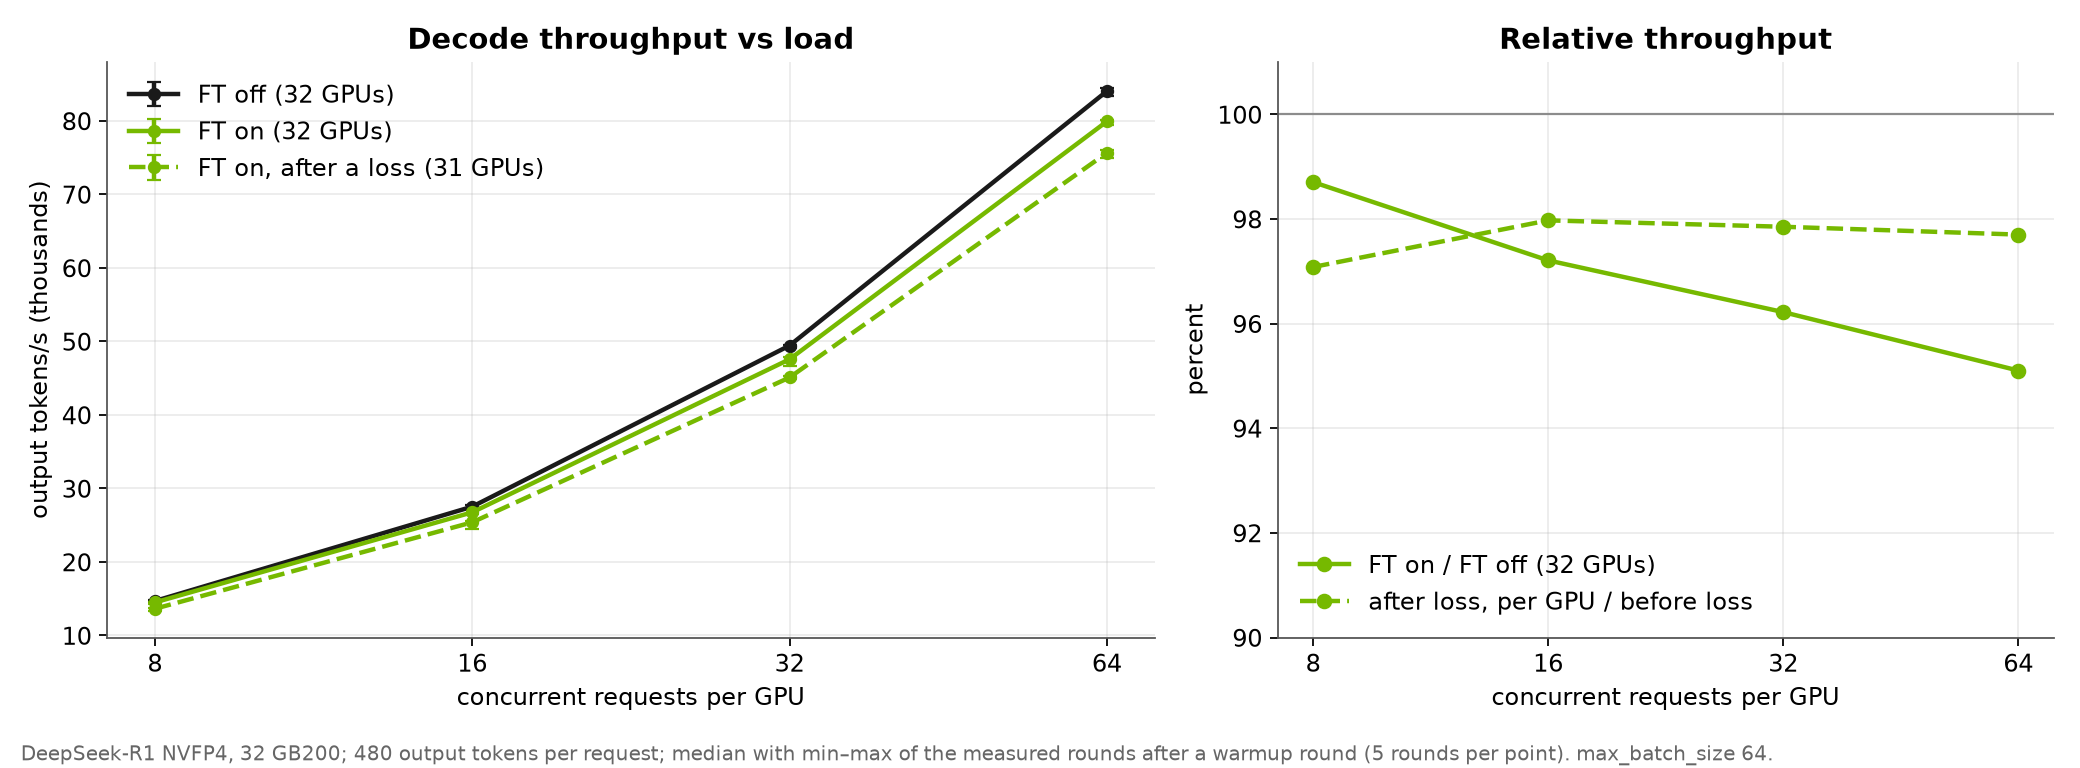
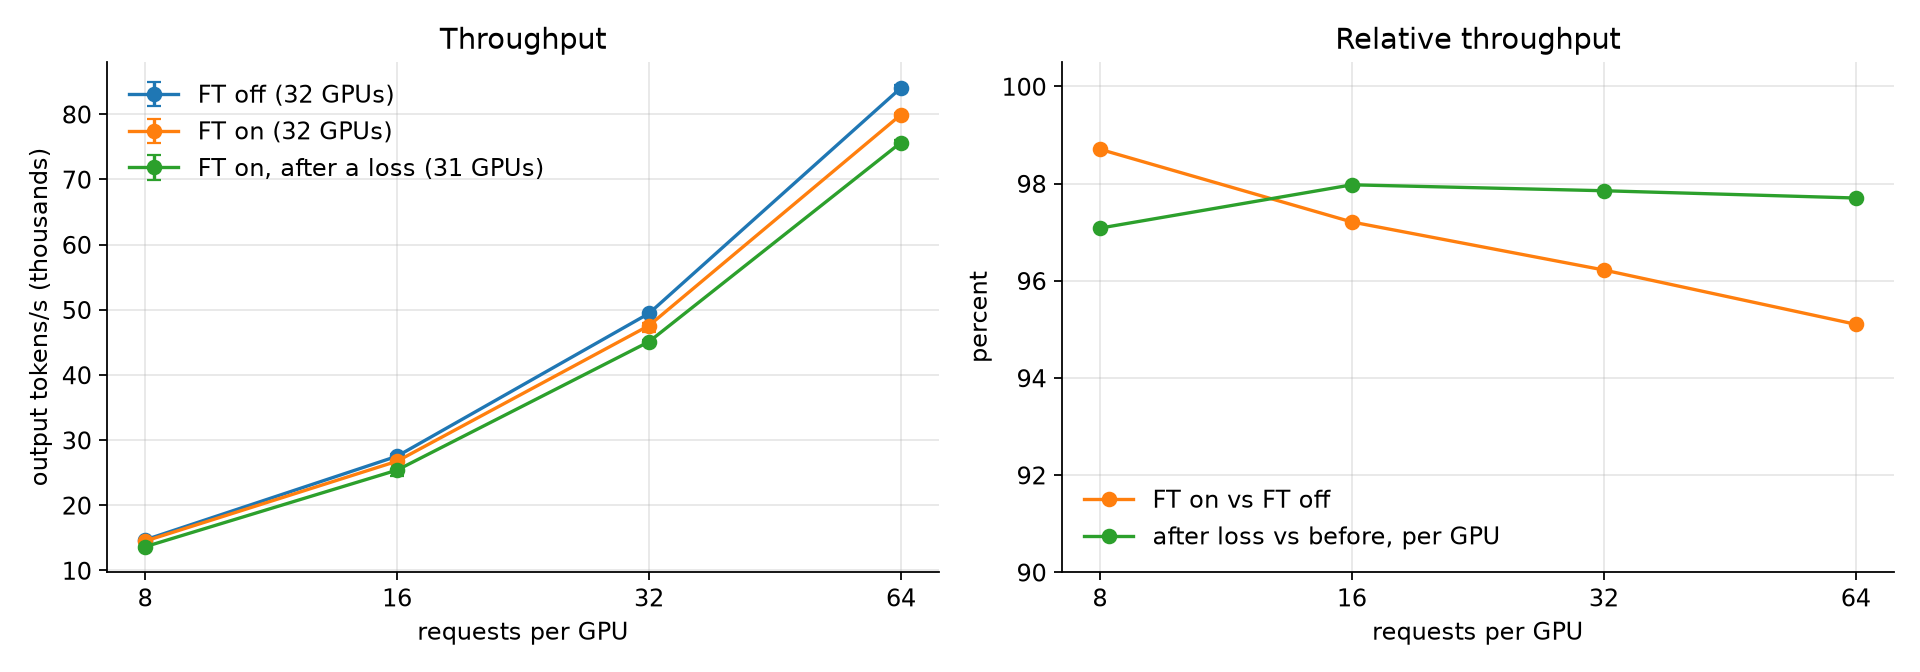
[None][doc] use plain standard charts for the WideEP FT evaluation

diff --git a/.wideep-ft-harness/evidence/make_eval.py b/.wideep-ft-harness/evidence/make_eval.py
@@ -15,9 +15,8 @@ import matplotlib
 matplotlib.use("Agg")
 import matplotlib.pyplot as plt  # noqa: E402
 
-BLACK, GRAY, GREEN, RED = "#1a1a1a", "#8c8c8c", "#76b900", "#d32f2f"
-plt.rcParams.update({"font.family": "DejaVu Sans", "font.size": 11, "axes.spines.top": False,
-                     "axes.spines.right": False, "axes.edgecolor": "#555", "axes.titleweight": "bold"})
+OFF, ON, LOSS = "tab:blue", "tab:orange", "tab:green"
+plt.rcParams.update({"font.size": 11, "axes.spines.top": False, "axes.spines.right": False})
 
 
 def load_sweep(run_dir: str) -> dict:
@@ -34,47 +33,33 @@ def sweep_chart(runs: str) -> None:
     # max_batch_size 64 run: only loads that all run concurrently (above 64 requests queue).
     merged = {mode: {n: v for n, v in points.items() if n <= 64}
               for mode, points in load_sweep(f"{runs}/sweep-7923718").items()}
-    series = [("noft", "FT off (32 GPUs)", BLACK, "-"), ("ft", "FT on (32 GPUs)", GREEN, "-"),
-              ("ft-loss", "FT on, after a loss (31 GPUs)", GREEN, "--")]
-    fig, (ax, rel) = plt.subplots(1, 2, figsize=(13, 4.8), gridspec_kw={"width_ratios": [1.35, 1]})
-    for mode, label, color, style in series:
-        if mode not in merged:
-            continue
+    series = [("noft", "FT off (32 GPUs)", OFF), ("ft", "FT on (32 GPUs)", ON),
+              ("ft-loss", "FT on, after a loss (31 GPUs)", LOSS)]
+    fig, (ax, rel) = plt.subplots(1, 2, figsize=(12, 4.2))
+    for mode, label, color in series:
         loads = sorted(merged[mode])
         med = [st.median(merged[mode][n]) / 1e3 for n in loads]
-        lo = [m - min(merged[mode][n]) / 1e3 for m, n in zip(med, loads)]
-        hi = [max(merged[mode][n]) / 1e3 - m for m, n in zip(med, loads)]
-        ax.errorbar(loads, med, yerr=[lo, hi], color=color, ls=style, marker="o", ms=5, capsize=3, lw=2,
-                    label=label)
-    ax.set_xscale("log", base=2)
-    ax.set_xticks(sorted(merged["noft"]), [str(n) for n in sorted(merged["noft"])])
-    ax.set_xlabel("concurrent requests per GPU")
+        err = [[m - min(merged[mode][n]) / 1e3 for m, n in zip(med, loads)],
+               [max(merged[mode][n]) / 1e3 - m for m, n in zip(med, loads)]]
+        ax.errorbar(loads, med, yerr=err, color=color, marker="o", capsize=3, label=label)
+    loads = sorted(merged["noft"])
+    for a in (ax, rel):
+        a.set_xscale("log", base=2)
+        a.set_xticks(loads, [str(n) for n in loads])
+        a.set_xlabel("requests per GPU")
+        a.grid(alpha=0.3)
     ax.set_ylabel("output tokens/s (thousands)")
-    ax.set_title("Decode throughput vs load")
-    ax.grid(alpha=0.25)
-    ax.legend(frameon=False, loc="upper left")
-
-    loads = sorted(set(merged["noft"]) & set(merged["ft"]))
+    ax.set_title("Throughput")
+    ax.legend(frameon=False)
     on_off = [st.median(merged["ft"][n]) / st.median(merged["noft"][n]) * 100 for n in loads]
-    rel.plot(loads, on_off, color=GREEN, marker="o", lw=2, label="FT on / FT off (32 GPUs)")
-    if "ft-loss" in merged:
-        both = [n for n in loads if n in merged["ft-loss"]]
-        per_gpu = [(st.median(merged["ft-loss"][n]) / 31) / (st.median(merged["ft"][n]) / 32) * 100 for n in both]
-        rel.plot(both, per_gpu, color=GREEN, ls="--", marker="o", lw=2,
-                 label="after loss, per GPU / before loss")
-    rel.axhline(100, color=GRAY, lw=1)
-    rel.set_xscale("log", base=2)
-    rel.set_xticks(loads, [str(n) for n in loads])
-    rel.set_ylim(90, 101)
-    rel.set_xlabel("concurrent requests per GPU")
+    per_gpu = [(st.median(merged["ft-loss"][n]) / 31) / (st.median(merged["ft"][n]) / 32) * 100 for n in loads]
+    rel.plot(loads, on_off, color=ON, marker="o", label="FT on vs FT off")
+    rel.plot(loads, per_gpu, color=LOSS, marker="o", label="after loss vs before, per GPU")
+    rel.set_ylim(90, 100.5)
     rel.set_ylabel("percent")
     rel.set_title("Relative throughput")
-    rel.grid(alpha=0.25)
     rel.legend(frameon=False, loc="lower left")
-    fig.text(0.01, 0.01, "DeepSeek-R1 NVFP4, 32 GB200; 480 output tokens per request; median with min–max of the "
-             "measured rounds after a warmup round (5 rounds per point). max_batch_size 64.",
-             fontsize=9, color="#666")
-    fig.tight_layout(rect=(0, 0.04, 1, 1))
+    fig.tight_layout()
     fig.savefig("eval_load_sweep.png", dpi=160)
     json.dump({m: {str(n): v for n, v in p.items()} for m, p in merged.items()}, open("eval_load_sweep.json", "w"),
               indent=1)
@@ -82,61 +67,35 @@ def sweep_chart(runs: str) -> None:
 
 def overhead_chart() -> None:
     data = json.load(open("eval_overhead.json"))
-    fig, (step_ax, layer_ax) = plt.subplots(1, 2, figsize=(13, 4.8))
-    labels, x = [], 0
-    for load in ("8", "64"):
-        for mode in ("off", "on"):
-            d = data[f"{load}/{mode}"]
-            busy, idle = d["gpu_busy"] / 1e3, d["gpu_idle"] / 1e3
-            color = GREEN if mode == "on" else BLACK
-            step_ax.bar(x, busy, color=color, width=0.7)
-            step_ax.bar(x, idle, bottom=busy, color="#d9d9d9", width=0.7, edgecolor=color, lw=1)
-            step_ax.text(x, busy + idle + 0.3, f"{d['step'] / 1e3:.2f} ms", ha="center", fontsize=10)
-            labels.append(f"FT {mode}\n{load} req/GPU")
-            x += 1
-        off, on = data[f"{load}/off"], data[f"{load}/on"]
-        moe = (on['span'] - off['span']) * 58 / 1e3
-        other = (on['step'] - off['step']) / 1e3 - moe
-        step_ax.text(x - 1.5, 27.5, f"step +{(on['step'] - off['step']) / 1e3:.2f} ms "
-                     f"(+{(on['step'] / off['step'] - 1) * 100:.1f}%)\n"
-                     f"= MoE layers (58 × span) {moe:+.2f} ms\n+ everything else {other:+.2f} ms",
-                     ha="center", va="bottom", fontsize=9.5, color="#444")
-        x += 0.6
-    step_ax.set_xticks([0, 1, 2.6, 3.6], labels)
-    step_ax.set_ylabel("median decode step (ms)")
-    step_ax.set_title("Decode step: GPU busy (solid) and GPU idle (gray)")
-    step_ax.set_ylim(0, 33)
+    fig, (step_ax, layer_ax) = plt.subplots(1, 2, figsize=(12, 4.2))
+    labels = [f"{load} req/GPU\nFT {mode}" for load in ("8", "64") for mode in ("off", "on")]
+    rows = [data[f"{load}/{mode}"] for load in ("8", "64") for mode in ("off", "on")]
+    x = range(len(rows))
+    busy = [r["gpu_busy"] / 1e3 for r in rows]
+    idle = [r["gpu_idle"] / 1e3 for r in rows]
+    step_ax.bar(x, busy, color=OFF, label="GPU busy")
+    step_ax.bar(x, idle, bottom=busy, color="lightgray", label="GPU idle")
+    step_ax.set_xticks(list(x), labels)
+    step_ax.set_ylabel("ms per decode step")
+    step_ax.set_title("Decode step time")
+    step_ax.legend(frameon=False, loc="upper left")
+    step_ax.grid(axis="y", alpha=0.3)
 
-    parts = [("dispatch", "dispatch"), ("fixup_after_dispatch", "sanitize/\ngather"),
-             ("combine", "combine"), ("rest", "rest\n(experts)")]
-    width, x = 0.17, 0
-    ticks = []
-    for load in ("8", "64"):
-        for j, (mode, color) in enumerate((("off", BLACK), ("on", GREEN))):
-            d = dict(data[f"{load}/{mode}"])
-            d["rest"] = d["span"] - d["dispatch"] - d["fixup_after_dispatch"] - d["combine"]
-            for k, (key, _) in enumerate(parts):
-                layer_ax.bar(x + k * width * 2.6 + j * width, d[key], width, color=color)
-                if mode == "on":
-                    delta = d[key] - (data[f"{load}/off"][key] if key != "rest" else
-                                      data[f"{load}/off"]["span"] - sum(data[f"{load}/off"][p] for p in
-                                                                        ("dispatch", "fixup_after_dispatch",
-                                                                         "combine")))
-                    layer_ax.text(x + k * width * 2.6 + width, d[key] + 1.5, f"{delta:+.1f}", ha="center",
-                                  fontsize=9, color="#444")
-        for k, (_, name) in enumerate(parts):
-            ticks.append((x + k * width * 2.6 + width / 2, name))
-        layer_ax.text(x + 1.5 * width * 2.6 + width / 2, 76, f"{load} req/GPU", ha="center", fontsize=11,
-                      weight="bold")
-        x += 2.4
-    layer_ax.set_xticks([t for t, _ in ticks], [lab for _, lab in ticks], fontsize=9)
-    layer_ax.set_ylabel("median per MoE layer (µs)")
-    layer_ax.set_title("One MoE layer, FT off (black) vs on (green); +Δ µs")
-    layer_ax.set_ylim(0, 80)
-    fig.text(0.01, 0.01, "DeepSeek-R1 NVFP4, 32 GB200, nsys on one rank; medians over ~2,400 decode steps "
-             "(58 MoE layers each) per run. Sanitize/gather start early (PDL), so their bar is the time "
-             "they add after dispatch ends.", fontsize=9, color="#666")
-    fig.tight_layout(rect=(0, 0.05, 1, 1))
+    parts = [("dispatch", "dispatch"), ("fixup_after_dispatch", "sanitize/gather"), ("combine", "combine")]
+    width = 0.2
+    for j, (load, mode, color) in enumerate((("8", "off", OFF), ("8", "on", ON), ("64", "off", OFF),
+                                             ("64", "on", ON))):
+        d = data[f"{load}/{mode}"]
+        offs = [k + (j - 1.5) * width for k in range(len(parts))]
+        layer_ax.bar(offs, [d[key] for key, _ in parts], width, color=color,
+                     hatch="//" if load == "64" else None, edgecolor="white",
+                     label=f"FT {mode}, {load} req/GPU")
+    layer_ax.set_xticks(range(len(parts)), [name for _, name in parts])
+    layer_ax.set_ylabel("µs per MoE layer")
+    layer_ax.set_title("MoE all-to-all kernels")
+    layer_ax.legend(frameon=False, fontsize=9)
+    layer_ax.grid(axis="y", alpha=0.3)
+    fig.tight_layout()
     fig.savefig("eval_overhead.png", dpi=160)
 
 
@@ -173,29 +132,21 @@ def failover_chart(runs: str) -> None:
               enumerate(sorted(glob.glob(f"{runs}/inflight-fix-*/inflight-*")), 1)]
     rows = [(label, ft_recovery(d)) for label, d in cases]
     rows = [(label, r) for label, r in rows if r is not None]
-    fig, ax = plt.subplots(figsize=(13, 0.55 * len(rows) + 2.6))
-    shades = ["#1a1a1a", "#4d4d4d", "#808080", GREEN, "#a8d65c", "#5c8f00", "#b3b3b3"]
+    short = ["detect + stop", "Shrink", "GPU drain + KV rollback", "authority: prepare",
+             "install", "authority: commit", "resume"]
+    colors = plt.get_cmap("tab10").colors
+    fig, ax = plt.subplots(figsize=(11, 0.45 * len(rows) + 1.8))
     for y, (label, r) in enumerate(rows):
-        for k, (stage, a, b) in enumerate(FT_STAGES):
-            left, width = r[a] * 1e3, (r[b] - r[a]) * 1e3
-            ax.barh(y, width, left=left, color=shades[k], height=0.6,
-                    label=stage if y == 0 else None)
-        ax.text(r["resumed"] * 1e3 + 1.5, y, f"{r['resumed'] * 1e3:.0f} ms", va="center", fontsize=10)
+        for k, (_, a, b) in enumerate(FT_STAGES):
+            ax.barh(y, (r[b] - r[a]) * 1e3, left=r[a] * 1e3, color=colors[k], height=0.6,
+                    label=short[k] if y == 0 else None)
     ax.set_yticks(range(len(rows)), [label for label, _ in rows])
     ax.invert_yaxis()
-    ax.set_xlabel("milliseconds after the rank was killed (median over the 31 survivors)")
-    ax.set_title("FT recovery: from the kill to serving again")
-    ax.legend(frameon=False, ncol=4, fontsize=9, loc="upper center", bbox_to_anchor=(0.5, -0.17))
-    ax.grid(axis="x", alpha=0.25)
-    first = [r["first_token"] for _, r in rows if r.get("first_token")]
-    note = (f"First new token at the client after an idle kill: {min(first):.2f}–{max(first):.2f} s "
-            "(request path; recovery itself is done by the end of each bar)." if first else "")
-    fig.text(0.01, 0.01, "DeepSeek-R1 NVFP4, 32 GB200, rank 2 SIGKILLed. Each bar: median over the 31 survivors of "
-             "wall-clock markers at every recovery step (8 nodes, NTP clocks: ms-level skew).\n"
-             "The authority proposes only after every survivor reported Stopped, so its segment includes waiting "
-             "for the slowest survivor (idle kill 2: one GPU drained after 86 ms).\n" + note,
-             fontsize=9, color="#666", va="bottom")
-    fig.tight_layout(rect=(0, 0.1, 1, 1))
+    ax.set_xlabel("ms after the kill (median over 31 survivors)")
+    ax.set_title("FT recovery steps")
+    ax.legend(frameon=False, ncol=4, fontsize=9, loc="upper center", bbox_to_anchor=(0.5, -0.25))
+    ax.grid(axis="x", alpha=0.3)
+    fig.tight_layout()
     fig.savefig("eval_ft_recovery.png", dpi=160)
     json.dump({label: r for label, r in rows}, open("eval_ft_recovery.json", "w"), indent=1)
 
